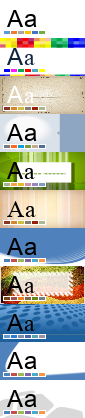
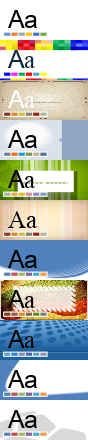
[PE mobile] Bug 46990

diff --git a/apps/presentationeditor/mobile/src/view/edit/EditSlide.jsx b/apps/presentationeditor/mobile/src/view/edit/EditSlide.jsx
@@ -47,6 +47,8 @@ const PageTheme = props => {
     const slideThemeIndex = storeSlideSettings.slideThemeIndex;
     const defaultThemes = arrayThemes[0];
     const docThemes = arrayThemes[1];
+
+    console.log(arrayThemes);
    
     // console.log(slideThemeIndex);
     // console.log(arrayThemes);
@@ -63,7 +65,7 @@ const PageTheme = props => {
                     {defaultThemes.map((elem, index) => {
                         return (
                             <ListItem key={elem.Index} className={elem.Index === slideThemeIndex ? "item-theme active" : "item-theme"} 
-                                style={{backgroundPosition: "0 " + index * -38 + "px"}} 
+                                style={{backgroundPosition: "0 " + index * -40 + "px"}} 
                                 onClick={() => {
                                     storeSlideSettings.changeSlideThemeIndex(elem.Index);
                                     props.onThemeClick(elem.Index);

diff --git a/apps/common/mobile/resources/less/common.less b/apps/common/mobile/resources/less/common.less
@@ -233,8 +233,8 @@
         position: relative;
         margin: 0;
         box-shadow: 0 0 0 1px rgba(0,0,0,.15);
-        width: 85px;
-        height: 38px;
+        width: 88px;
+        height: 40px;
         margin-top: 14px;
         background-image: url(../img/themes/themes.png);
         display: block;
